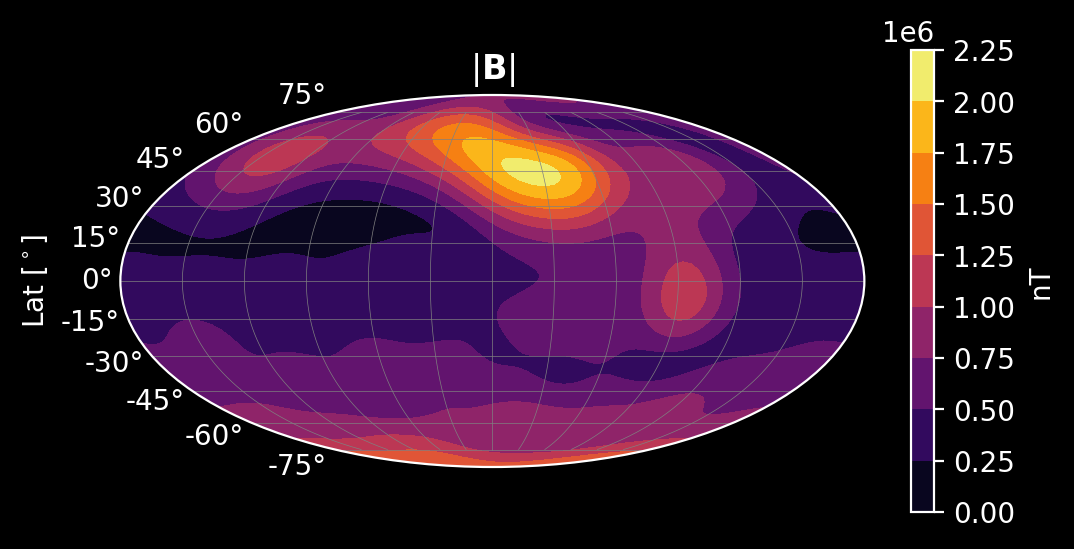
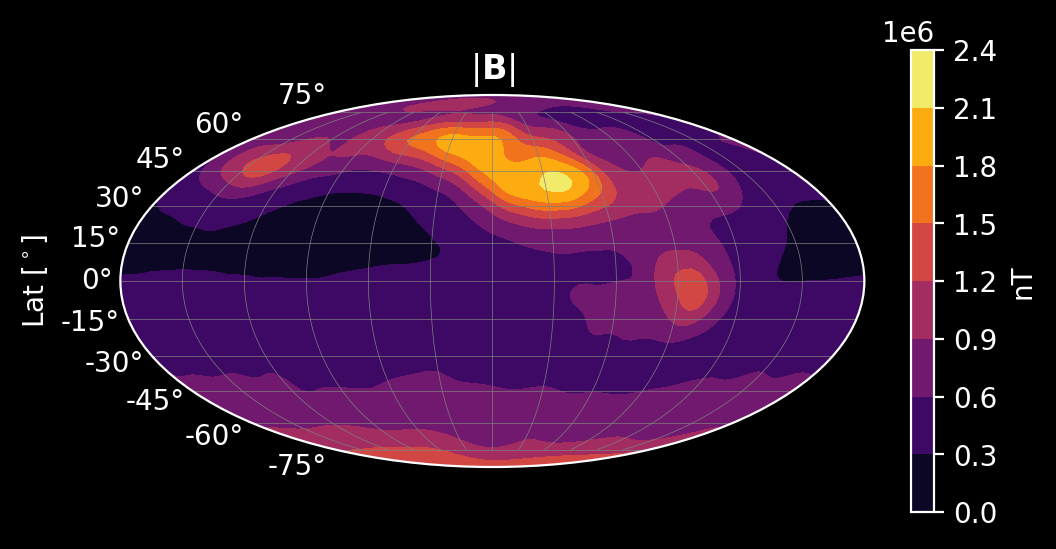
changed example plot to JRM33 from JRM09

Changed region(s): [[0.0312, 0.031, 0.9688, 0.9599]]

diff --git a/scripts/plot_surface_field.py b/scripts/plot_surface_field.py
@@ -7,7 +7,7 @@ plt.style.use("dark_background")
 
 
 def calc_field_iupitermag(pos):
-    internalField = im.InternalField("JRM09")
+    internalField = im.InternalField("JRM33")
     return internalField.map_calc_field(pos)
 
 
